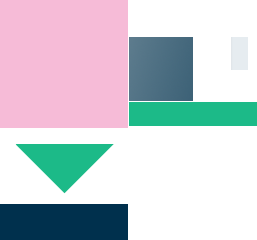
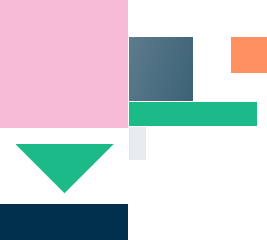
功能改进

diff --git a/src/ui/layaUI.max.all.js b/src/ui/layaUI.max.all.js
@@ -6,6 +6,7 @@ var game_uiUI=(function(_super){
 		function game_uiUI(){
 			
 		    this.keyboard=null;
+		    this.keyboard_bg=null;
 		    this.btn_q=null;
 		    this.btn_w=null;
 		    this.btn_e=null;
@@ -44,10 +45,11 @@ var game_uiUI=(function(_super){
 		    
 			laya.ui.Component.prototype.createChildren.call(this);
 			this.createView(game_uiUI.uiView);
-
 		}
 
-		game_uiUI.uiView={"type":"View","props":{"width":750,"height":300},"child":[{"type":"View","props":{"y":0,"x":0,"width":750,"var":"keyboard","height":300},"child":[{"type":"Button","props":{"y":70,"x":132,"width":36,"var":"btn_q","skin":"main_ui/btn_key.png","label":"Q","height":50}},{"type":"Button","props":{"y":70,"x":179,"width":36,"var":"btn_w","skin":"main_ui/btn_key.png","label":"W","height":50}},{"type":"Button","props":{"y":70,"x":226,"width":36,"var":"btn_e","skin":"main_ui/btn_key.png","label":"E","height":50}},{"type":"Button","props":{"y":70,"x":273,"width":36,"var":"btn_r","skin":"main_ui/btn_key.png","label":"R","height":50}},{"type":"Button","props":{"y":70,"x":320,"width":36,"var":"btn_t","skin":"main_ui/btn_key.png","label":"T","height":50}},{"type":"Button","props":{"y":70,"x":367,"width":36,"var":"btn_y","skin":"main_ui/btn_key.png","label":"Y","height":50}},{"type":"Button","props":{"y":70,"x":414,"width":36,"var":"btn_u","skin":"main_ui/btn_key.png","label":"U","height":50}},{"type":"Button","props":{"y":70,"x":461,"width":36,"var":"btn_i","skin":"main_ui/btn_key.png","label":"I","height":50}},{"type":"Button","props":{"y":70,"x":508,"width":36,"var":"btn_o","skin":"main_ui/btn_key.png","label":"O","height":50}},{"type":"Button","props":{"y":70,"x":555,"width":36,"var":"btn_p","skin":"main_ui/btn_key.png","label":"P","height":50}},{"type":"Button","props":{"y":130,"x":145,"width":36,"var":"btn_a","skin":"main_ui/btn_key.png","label":"A","height":50}},{"type":"Button","props":{"y":130,"x":192,"width":36,"var":"btn_s","skin":"main_ui/btn_key.png","label":"S","height":50}},{"type":"Button","props":{"y":130,"x":239,"width":36,"var":"btn_d","skin":"main_ui/btn_key.png","label":"D","height":50}},{"type":"Button","props":{"y":130,"x":286,"width":36,"var":"btn_f","skin":"main_ui/btn_key.png","label":"F","height":50}},{"type":"Button","props":{"y":130,"x":333,"width":36,"var":"btn_g","skin":"main_ui/btn_key.png","label":"G","height":50}},{"type":"Button","props":{"y":130,"x":380,"width":36,"var":"btn_h","skin":"main_ui/btn_key.png","label":"H","height":50}},{"type":"Button","props":{"y":130,"x":427,"width":36,"var":"btn_j","skin":"main_ui/btn_key.png","label":"J","height":50}},{"type":"Button","props":{"y":130,"x":474,"width":36,"var":"btn_k","skin":"main_ui/btn_key.png","label":"K","height":50}},{"type":"Button","props":{"y":130,"x":521,"width":36,"var":"btn_l","skin":"main_ui/btn_key.png","label":"L","height":50}},{"type":"Button","props":{"y":190,"x":482,"width":49,"var":"btn_del","skin":"main_ui/btn_key.png","labelColors":"#ff0000","label":"DEL","height":49}},{"type":"Button","props":{"y":190,"x":153,"width":36,"var":"btn_z","skin":"main_ui/btn_key.png","label":"Z","height":50}},{"type":"Button","props":{"y":190,"x":200,"width":36,"var":"btn_x","skin":"main_ui/btn_key.png","label":"X","height":50}},{"type":"Button","props":{"y":190,"x":247,"width":36,"var":"btn_c","skin":"main_ui/btn_key.png","label":"C","height":50}},{"type":"Button","props":{"y":190,"x":294,"width":36,"var":"btn_v","skin":"main_ui/btn_key.png","label":"Ü","height":50}},{"type":"Button","props":{"y":190,"x":341,"width":36,"var":"btn_b","skin":"main_ui/btn_key.png","label":"B","height":50}},{"type":"Button","props":{"y":190,"x":388,"width":36,"var":"btn_N","skin":"main_ui/btn_key.png","label":"N","height":50}},{"type":"Button","props":{"y":190,"x":435,"width":36,"var":"btn_M","skin":"main_ui/btn_key.png","label":"M","height":50}},{"type":"Button","props":{"y":190,"x":542,"width":49,"var":"btn_ok","skin":"main_ui/btn_key.png","labelColors":"#0000ff","label":"OK","height":50}}]}]};
+		STATICATTR$(game_uiUI,
+		['uiView',function(){return this.uiView={"type":"View","props":{"width":750,"height":419},"child":[{"type":"View","props":{"y":0,"x":0,"width":750,"var":"keyboard","height":419},"child":[{"type":"Image","props":{"y":0,"x":0,"var":"keyboard_bg","skin":"pic/keyboard_bg.png"}},{"type":"Button","props":{"y":10,"x":19,"width":65,"var":"btn_q","labelSize":50,"labelFont":"Arial","labelBold":true,"labelAlign":"center","label":" Q","height":112},"child":[{"type":"Image","props":{"skin":"pic/keyboard_key_letter.png"}}]},{"type":"Button","props":{"y":10,"x":91,"width":65,"var":"btn_w","labelSize":50,"labelBold":true,"labelAlign":"center","label":" W","height":112},"child":[{"type":"Image","props":{"skin":"pic/keyboard_key_letter.png"}}]},{"type":"Button","props":{"y":10,"x":163,"width":65,"var":"btn_e","label":"E","height":112},"child":[{"type":"Image","props":{"skin":"pic/keyboard_key_letter.png"}}]},{"type":"Button","props":{"y":10,"x":235,"width":65,"var":"btn_r","label":"R","height":112},"child":[{"type":"Image","props":{"skin":"pic/keyboard_key_letter.png"}}]},{"type":"Button","props":{"y":10,"x":307,"width":65,"var":"btn_t","label":"T","height":112},"child":[{"type":"Image","props":{"skin":"pic/keyboard_key_letter.png"}}]},{"type":"Button","props":{"y":10,"x":379,"width":65,"var":"btn_y","label":"Y","height":112},"child":[{"type":"Image","props":{"skin":"pic/keyboard_key_letter.png"}}]},{"type":"Button","props":{"y":10,"x":451,"width":65,"var":"btn_u","label":"U","height":112},"child":[{"type":"Image","props":{"skin":"pic/keyboard_key_letter.png"}}]},{"type":"Button","props":{"y":10,"x":523,"width":65,"var":"btn_i","label":"I","height":112},"child":[{"type":"Image","props":{"skin":"pic/keyboard_key_letter.png"}}]},{"type":"Button","props":{"y":10,"x":595,"width":65,"var":"btn_o","label":"O","height":112},"child":[{"type":"Image","props":{"skin":"pic/keyboard_key_letter.png"}}]},{"type":"Button","props":{"y":10,"x":667,"width":65,"var":"btn_p","label":"P","height":112},"child":[{"type":"Image","props":{"skin":"pic/keyboard_key_letter.png"}}]},{"type":"Button","props":{"y":155,"x":49,"width":65,"var":"btn_a","label":"A","height":112},"child":[{"type":"Image","props":{"skin":"pic/keyboard_key_letter.png"}}]},{"type":"Button","props":{"y":155,"x":121,"width":65,"var":"btn_s","label":"S","height":112},"child":[{"type":"Image","props":{"skin":"pic/keyboard_key_letter.png"}}]},{"type":"Button","props":{"y":155,"x":193,"width":65,"var":"btn_d","label":"D","height":112},"child":[{"type":"Image","props":{"skin":"pic/keyboard_key_letter.png"}}]},{"type":"Button","props":{"y":155,"x":265,"width":65,"var":"btn_f","label":"F","height":112},"child":[{"type":"Image","props":{"skin":"pic/keyboard_key_letter.png"}}]},{"type":"Button","props":{"y":155,"x":337,"width":65,"var":"btn_g","label":"G","height":112},"child":[{"type":"Image","props":{"skin":"pic/keyboard_key_letter.png"}}]},{"type":"Button","props":{"y":155,"x":409,"width":65,"var":"btn_h","label":"H","height":112},"child":[{"type":"Image","props":{"skin":"pic/keyboard_key_letter.png"}}]},{"type":"Button","props":{"y":155,"x":481,"width":65,"var":"btn_j","label":"J","height":112},"child":[{"type":"Image","props":{"skin":"pic/keyboard_key_letter.png"}}]},{"type":"Button","props":{"y":155,"x":553,"width":65,"var":"btn_k","label":"K","height":112},"child":[{"type":"Image","props":{"skin":"pic/keyboard_key_letter.png"}}]},{"type":"Button","props":{"y":155,"x":625,"width":65,"var":"btn_l","label":"L","height":112},"child":[{"type":"Image","props":{"skin":"pic/keyboard_key_letter.png"}}]},{"type":"Button","props":{"y":300,"x":523,"width":76,"var":"btn_del","labelColors":"#ff0000","height":112},"child":[{"type":"Image","props":{"skin":"pic/keyboard_key_del.png"}}]},{"type":"Button","props":{"y":300,"x":19,"width":65,"var":"btn_z","label":"Z","height":112},"child":[{"type":"Image","props":{"skin":"pic/keyboard_key_letter.png"}}]},{"type":"Button","props":{"y":300,"x":91,"width":65,"var":"btn_x","label":"X","height":112},"child":[{"type":"Image","props":{"skin":"pic/keyboard_key_letter.png"}}]},{"type":"Button","props":{"y":300,"x":163,"width":65,"var":"btn_c","label":"C","height":112},"child":[{"type":"Image","props":{"skin":"pic/keyboard_key_letter.png"}}]},{"type":"Button","props":{"y":300,"x":235,"width":65,"var":"btn_v","label":"Ü","height":112},"child":[{"type":"Image","props":{"skin":"pic/keyboard_key_letter.png"}}]},{"type":"Button","props":{"y":300,"x":307,"width":65,"var":"btn_b","label":"B","height":112},"child":[{"type":"Image","props":{"skin":"pic/keyboard_key_letter.png"}}]},{"type":"Button","props":{"y":300,"x":379,"width":65,"var":"btn_N","label":"N","height":112},"child":[{"type":"Image","props":{"skin":"pic/keyboard_key_letter.png"}}]},{"type":"Button","props":{"y":300,"x":451,"width":65,"var":"btn_M","label":"M","height":112},"child":[{"type":"Image","props":{"skin":"pic/keyboard_key_letter.png"}}]},{"type":"Button","props":{"y":300,"x":607,"width":123,"var":"btn_ok","labelColors":"#0000ff","label":"OK","height":112},"child":[{"type":"Image","props":{"skin":"pic/keyboard_key_ok.png"}}]}]}]};}
+		]);
 		return game_uiUI;
 	})(View);
 var main_uiUI=(function(_super){
@@ -63,6 +65,10 @@ var main_uiUI=(function(_super){
 		    this._playername=null;
 		    this._playertime=null;
 		    this.keyboard=null;
+		    this.popup_success=null;
+		    this.btn_share=null;
+		    this.btn_rule=null;
+		    this.popup_overtime=null;
 
 			main_uiUI.__super.call(this);
 		}
@@ -75,10 +81,11 @@ var main_uiUI=(function(_super){
 
 			laya.ui.Component.prototype.createChildren.call(this);
 			this.createView(main_uiUI.uiView);
-
 		}
 
-		main_uiUI.uiView={"type":"View","props":{"width":750,"height":1334},"child":[{"type":"Panel","props":{"y":705,"x":1,"width":750,"var":"pan_mytopic","height":635},"child":[{"type":"Image","props":{"y":0,"x":0,"width":750,"skin":"main_ui/panel_bg.png","height":381}},{"type":"Image","props":{"y":0,"x":0,"width":750,"skin":"main_ui/panel_title.png","sizeGrid":"10,10,10,10","height":24}},{"type":"Button","props":{"y":300,"x":434,"width":128,"var":"btnResult","skin":"main_ui/btn_ok.png","label":"规则","height":35}},{"type":"Button","props":{"y":300,"x":235,"width":128,"var":"btnStart","skin":"main_ui/btn_cancel.png","label":"开  始","height":35}},{"type":"View","props":{"y":86,"x":1,"width":746,"height":165},"child":[{"type":"Image","props":{"y":14,"x":16,"width":23,"skin":"main_ui/arrow.png","height":23},"child":[{"type":"Label","props":{"y":4,"x":27,"text":"你的答案","fontSize":16,"color":"#ffffff"}}]}]},{"type":"View","props":{"y":24,"x":167,"width":400,"height":71},"child":[{"type":"words","props":{"y":98,"x":2,"var":"topicpanel","runtime":"ui.wordsUI"}},{"type":"Image","props":{"y":5,"x":16,"skin":"main_ui/lilith_logo.png"}},{"type":"Label","props":{"y":7,"x":83,"text":"烟花开过要吃甜甜圈","fontSize":25,"color":"#ffffff"}},{"type":"Label","props":{"y":40,"x":84,"text":"题目：？？？圈","fontSize":25,"color":"#ffffff"}}]}]},{"type":"Panel","props":{"y":9,"x":0,"width":750,"name":"pan_result","height":684},"child":[{"type":"Image","props":{"y":0,"x":0,"width":750,"skin":"main_ui/panel_bg.png","height":814}},{"type":"Image","props":{"y":0,"x":0,"width":750,"skin":"main_ui/panel_title.png","height":30}},{"type":"List","props":{"y":30,"x":2,"width":750,"var":"lst_players","vScrollBarSkin":"main_ui/vscroll.png","repeatY":4,"repeatX":1,"height":789},"child":[{"type":"Box","props":{"y":1,"x":45,"name":"render"},"child":[{"type":"View","props":{"var":"_boxview","name":"boxview"},"child":[{"type":"Image","props":{"var":"_playerico","skin":"main_ui/btn_key.png","name":"playerico"}},{"type":"Label","props":{"y":5,"x":45,"var":"_playername","text":"这是一个人的名字","name":"playername"}},{"type":"Label","props":{"y":5,"x":373,"var":"_playertime","text":"6s","name":"playertime"}},{"type":"words","props":{"y":37,"x":-2,"name":"words","runtime":"ui.wordsUI"}}]}]}]}]},{"type":"Image","props":{"y":54,"x":303,"width":157,"skin":"main_ui/lilith_logo.png","height":45},"child":[{"type":"Label","props":{"y":7,"x":47,"text":"记录","fontSize":30,"color":"#d6ff00"}}]},{"type":"game_ui","props":{"y":1027,"x":-2,"var":"keyboard","runtime":"ui.game_uiUI"}}]};
+		STATICATTR$(main_uiUI,
+		['uiView',function(){return this.uiView={"type":"View","props":{"width":750,"height":1334},"child":[{"type":"Panel","props":{"y":550,"x":-1,"width":750,"var":"pan_mytopic","height":374},"child":[{"type":"Image","props":{"y":0,"x":0,"width":750,"skin":"main_ui/panel_bg.png","height":381}},{"type":"Image","props":{"y":0,"x":0,"width":750,"skin":"main_ui/panel_title.png","sizeGrid":"10,10,10,10","height":24}},{"type":"Button","props":{"y":300,"x":434,"width":128,"var":"btnResult","skin":"main_ui/btn_ok.png","label":"规则","height":35}},{"type":"Button","props":{"y":300,"x":235,"width":128,"var":"btnStart","skin":"main_ui/btn_cancel.png","label":"开  始","height":35}},{"type":"View","props":{"y":86,"x":1,"width":746,"height":165},"child":[{"type":"Image","props":{"y":14,"x":16,"width":23,"skin":"main_ui/arrow.png","height":23},"child":[{"type":"Label","props":{"y":4,"x":27,"text":"你的答案","fontSize":16,"color":"#ffffff"}}]}]},{"type":"View","props":{"y":24,"x":167,"width":400,"height":71},"child":[{"type":"words","props":{"y":98,"x":2,"var":"topicpanel","runtime":"ui.wordsUI"}},{"type":"Image","props":{"y":5,"x":16,"skin":"main_ui/lilith_logo.png"}},{"type":"Label","props":{"y":7,"x":83,"text":"烟花开过要吃甜甜圈","fontSize":25,"color":"#ffffff"}},{"type":"Label","props":{"y":40,"x":84,"text":"题目：？？？圈","fontSize":25,"color":"#ffffff"}}]}]},{"type":"Panel","props":{"y":0,"x":0,"width":750,"name":"pan_result","height":684},"child":[{"type":"Image","props":{"y":0,"x":0,"width":750,"skin":"main_ui/panel_bg.png","height":814}},{"type":"Image","props":{"y":0,"x":0,"width":750,"skin":"main_ui/panel_title.png","height":30}},{"type":"List","props":{"y":30,"x":2,"width":750,"var":"lst_players","vScrollBarSkin":"main_ui/vscroll.png","repeatY":4,"repeatX":1,"height":789},"child":[{"type":"Box","props":{"y":1,"x":45,"name":"render"},"child":[{"type":"View","props":{"var":"_boxview","name":"boxview"},"child":[{"type":"Image","props":{"var":"_playerico","skin":"main_ui/btn_key.png","name":"playerico"}},{"type":"Label","props":{"y":5,"x":45,"var":"_playername","text":"这是一个人的名字","name":"playername"}},{"type":"Label","props":{"y":5,"x":373,"var":"_playertime","text":"6s","name":"playertime"}},{"type":"words","props":{"y":37,"x":-2,"name":"words","runtime":"ui.wordsUI"}}]}]}]}]},{"type":"Image","props":{"y":54,"x":303,"width":157,"skin":"main_ui/lilith_logo.png","height":45},"child":[{"type":"Label","props":{"y":7,"x":47,"text":"记录","fontSize":30,"color":"#d6ff00"}}]},{"type":"game_ui","props":{"y":911,"x":3,"width":750,"var":"keyboard","height":419,"runtime":"ui.game_uiUI"}},{"type":"View","props":{"var":"popup_success"},"child":[{"type":"Image","props":{"y":58,"x":53,"skin":"pic/popup_success.png"}},{"type":"Button","props":{"y":1112,"x":71,"width":286,"var":"btn_share","labelSize":30,"labelFont":"SimSun","labelColors":"#ffffff","labelBold":true,"label":"邀请好友答题","height":99},"child":[{"type":"Image","props":{"y":0,"x":0,"skin":"pic/button_red.png"}}]},{"type":"Button","props":{"y":1112,"x":410,"width":286,"var":"btn_rule","labelSize":30,"labelColors":"#ffffff","labelBold":true,"label":"规则说明","height":99},"child":[{"type":"Image","props":{"skin":"pic/button_red.png"}}]}]},{"type":"View","props":{"y":10,"x":10,"var":"popup_overtime"},"child":[{"type":"Image","props":{"y":52,"x":66,"skin":"pic/popup_overtime.png"}},{"type":"Button","props":{"y":1112,"x":71,"width":286,"labelSize":30,"labelFont":"SimSun","labelColors":"#ffffff","labelBold":true,"label":"    向朋友求助","height":99},"child":[{"type":"Image","props":{"y":0,"x":0,"skin":"pic/button_red.png"}},{"type":"Image","props":{"y":21,"x":24,"width":49,"skin":"pic/icon_monents.png","height":49}}]},{"type":"Button","props":{"y":1112,"x":410,"width":286,"labelSize":30,"labelColors":"#ffffff","labelBold":true,"label":"规则说明","height":99},"child":[{"type":"Image","props":{"skin":"pic/button_red.png"}}]}]}]};}
+		]);
 		return main_uiUI;
 	})(View);
 var readme_uiUI=(function(_super){
@@ -92,35 +99,29 @@ var readme_uiUI=(function(_super){
 		CLASS$(readme_uiUI,'ui.readme_uiUI',_super);
 		var __proto__=readme_uiUI.prototype;
 		__proto__.createChildren=function(){
-		    			View.regComponent("HTMLDivElement",laya.html.dom.HTMLDivElement);
-
+		    
 			laya.ui.Component.prototype.createChildren.call(this);
 			this.createView(readme_uiUI.uiView);
-
 		}
 
-		readme_uiUI.uiView={"type":"Dialog","props":{"width":480,"height":800},"child":[{"type":"Image","props":{"y":0,"x":0,"width":480,"skin":"main_ui/panel_title.png","height":800,"alpha":0.9}},{"type":"View","props":{"y":344,"x":0,"width":480,"height":93},"child":[{"type":"Image","props":{"y":-181,"x":0,"width":480,"skin":"main_ui/panel_bg.png","height":447},"child":[{"type":"HTMLDivElement","props":{"y":94,"x":5,"width":476,"name":"txthtml_rules","innerHTML":"1、对方公司圣诞风格的。 <br> 2、大发发大发发安抚安抚 <br> 3、啊给我二哥哥我二哥","height":242}},{"type":"Button","props":{"y":389,"x":189,"width":128,"var":"btn_ok","skin":"main_ui/btn_ok.png","label":"返回","height":31}}]}]}]};
+		STATICATTR$(readme_uiUI,
+		['uiView',function(){return this.uiView={"type":"Dialog","props":{"width":750,"height":1334},"child":[{"type":"Image","props":{"y":0,"x":0,"width":750,"skin":"pic/blackmask.png","sizeGrid":"2,2,2,2","height":1334,"alpha":0.8}},{"type":"Image","props":{"y":305,"x":84,"width":595,"skin":"pic/rule_bg.png","height":719,"alpha":0.9}},{"type":"View","props":{"y":649,"x":84,"width":480,"height":93},"child":[{"type":"Image","props":{"y":-272,"x":218,"skin":"pic/rule_title.png"},"child":[{"type":"Image","props":{"y":213,"x":-115,"skin":"pic/rule_underline.png"}},{"type":"Image","props":{"y":303,"x":-115,"skin":"pic/rule_underline.png"}},{"type":"Image","props":{"y":401,"x":-115,"skin":"pic/rule_underline.png"}},{"type":"Image","props":{"y":517,"x":-115,"skin":"pic/rule_underline.png"}}]}]},{"type":"Button","props":{"y":1043,"x":264,"width":232,"var":"btn_ok","height":56},"child":[{"type":"Image","props":{"skin":"pic/rule_iknow.png"}}]}]};}
+		]);
 		return readme_uiUI;
 	})(Dialog);
 var wordsUI=(function(_super){
 		function wordsUI(){
 			
-		    this._pinyin1=null;
+		    this.bg_unlock=null;
+		    this.bg_locked=null;
 		    this.pinyin1=null;
-		    this._word1=null;
+		    this.pinyin2=null;
+		    this.pinyin3=null;
+		    this.pinyin4=null;
 		    this.word1=null;
 		    this.flashnode=null;
-		    this._pinyin2=null;
-		    this.pinyin2=null;
-		    this._word2=null;
 		    this.word2=null;
-		    this._pinyin3=null;
-		    this.pinyin3=null;
-		    this._word3=null;
 		    this.word3=null;
-		    this._pinyin4=null;
-		    this.pinyin4=null;
-		    this._word4=null;
 		    this.word4=null;
 
 			wordsUI.__super.call(this);
@@ -132,9 +133,10 @@ var wordsUI=(function(_super){
 		    
 			laya.ui.Component.prototype.createChildren.call(this);
 			this.createView(wordsUI.uiView);
-
 		}
 
-		wordsUI.uiView={"type":"View","props":{"width":400,"height":134},"child":[{"type":"View","props":{"y":0,"x":0,"width":400,"height":134},"child":[{"type":"Image","props":{"y":9,"x":14,"width":69,"var":"_pinyin1","skin":"main_ui/lilith_logo.png","name":"pinyin1","height":29},"child":[{"type":"Label","props":{"y":2,"width":62,"var":"pinyin1","valign":"middle","text":"ren","height":26,"fontSize":20,"color":"#ffffff","centerX":0,"align":"center"}}]},{"type":"Image","props":{"y":51,"x":14,"width":68,"var":"_word1","skin":"main_ui/lilith_logo.png","name":"word1","height":74},"child":[{"type":"Label","props":{"width":62,"var":"word1","valign":"middle","text":"人","height":64,"fontSize":25,"color":"#ffffff","centerY":0,"centerX":0,"align":"center"}},{"type":"Label","props":{"y":10,"x":10,"width":62,"var":"flashnode","valign":"middle","height":64,"fontSize":25,"color":"#ffffff","centerY":0,"centerX":0,"align":"center"}}]},{"type":"Image","props":{"y":9,"x":116,"width":69,"var":"_pinyin2","skin":"main_ui/lilith_logo.png","name":"pinyin2","height":29},"child":[{"type":"Label","props":{"y":2,"width":62,"var":"pinyin2","valign":"middle","text":"ren","height":26,"fontSize":20,"color":"#ffffff","centerX":0,"align":"center"}}]},{"type":"Image","props":{"y":51,"x":116,"width":68,"var":"_word2","skin":"main_ui/lilith_logo.png","name":"word1","height":74},"child":[{"type":"Label","props":{"y":5,"width":62,"var":"word2","valign":"middle","text":"？","height":64,"fontSize":25,"color":"#ffffff","centerX":0,"align":"center"}}]},{"type":"Image","props":{"y":9,"x":217,"width":69,"var":"_pinyin3","skin":"main_ui/lilith_logo.png","name":"pinyin3","height":29},"child":[{"type":"Label","props":{"y":2,"width":62,"var":"pinyin3","valign":"middle","text":"ren","height":26,"fontSize":20,"color":"#ffffff","centerX":0,"align":"center"}}]},{"type":"Image","props":{"y":51,"x":218,"width":68,"var":"_word3","skin":"main_ui/lilith_logo.png","name":"_word3","height":74},"child":[{"type":"Label","props":{"y":5,"width":62,"var":"word3","valign":"middle","text":"？","height":64,"fontSize":25,"color":"#ffffff","centerX":0,"align":"center"}}]},{"type":"Image","props":{"y":9,"x":319,"width":69,"var":"_pinyin4","skin":"main_ui/lilith_logo.png","name":"pinyin4","height":29},"child":[{"type":"Label","props":{"y":2,"width":62,"var":"pinyin4","valign":"middle","text":"ren","height":26,"fontSize":20,"color":"#ffffff","centerX":0,"align":"center"}}]},{"type":"Image","props":{"y":51,"x":320,"width":68,"var":"_word4","skin":"main_ui/lilith_logo.png","name":"word4","height":74},"child":[{"type":"Label","props":{"y":5,"width":62,"var":"word4","valign":"middle","text":"？","height":64,"fontSize":25,"color":"#ffffff","centerX":0,"align":"center"}}]}]}]};
+		STATICATTR$(wordsUI,
+		['uiView',function(){return this.uiView={"type":"View","props":{"width":525,"height":170},"child":[{"type":"View","props":{"y":0,"x":0,"width":525,"height":170},"child":[{"type":"Image","props":{"y":0,"x":0,"var":"bg_unlock","skin":"pic/words_bg_unlock.png"}},{"type":"Image","props":{"var":"bg_locked","skin":"pic/words_bg_locked.png"}},{"type":"Label","props":{"y":0,"x":5,"width":104,"var":"pinyin1","valign":"middle","text":"ren","height":43,"fontSize":20,"color":"#ffffff","align":"center"}},{"type":"Label","props":{"y":0,"x":142,"width":104,"var":"pinyin2","valign":"middle","text":"ren","height":43,"fontSize":20,"color":"#ffffff","align":"center"}},{"type":"Label","props":{"y":0,"x":279,"width":104,"var":"pinyin3","valign":"middle","text":"ren","height":43,"fontSize":20,"color":"#ffffff","align":"center"}},{"type":"Label","props":{"y":0,"x":416,"width":104,"var":"pinyin4","valign":"middle","text":"ren","height":43,"fontSize":20,"color":"#ffffff","align":"center"}},{"type":"Label","props":{"y":62,"x":5,"width":103,"var":"word1","valign":"middle","text":"人","height":103,"fontSize":25,"color":"#ffffff","align":"center"},"child":[{"type":"Label","props":{"y":0,"x":206,"width":103,"var":"flashnode","valign":"middle","height":103,"fontSize":25,"color":"#ffffff","centerX":0,"align":"center"}}]},{"type":"Label","props":{"y":62,"x":142,"width":103,"var":"word2","valign":"middle","text":"？","height":103,"fontSize":25,"color":"#ffffff","align":"center"}},{"type":"Label","props":{"y":62,"x":279,"width":103,"var":"word3","valign":"middle","text":"？","height":103,"fontSize":25,"color":"#ffffff","align":"center"}},{"type":"Label","props":{"y":62,"x":416,"width":103,"var":"word4","valign":"middle","text":"？","height":103,"fontSize":25,"color":"#ffffff","align":"center"}}]}]};}
+		]);
 		return wordsUI;
 	})(View);

diff --git a/src/mainui_manager.js b/src/mainui_manager.js
@@ -41,6 +41,8 @@
 		var btnResult = this.btnResult;
 		var wordspanel = this.topicpanel;
 		var keyboard = this.keyboard;
+		var panelSuccess =this.popup_success;
+		var panelFailed = this.popup_overtime;
 
         var userlist = _gamelogic.getUserList();
 		this.render.dataSource = {slider: 50, scroll: 80, progress: 0.2, label: {color: "#ff0000", text: "Hello LayaAir"}};
@@ -53,6 +55,10 @@
 		this.lst_players.renderHandler = new Handler(this, onListRender);//还可以自定义list渲染方式，可以打开下面注释看一下效果
 
 		keyboard.y = 1337;
+		panelFailed.visible = false;
+		panelSuccess.visible = false;
+
+
 		btnResult.on(Event.CLICK, this, onBtnReadmeClick);
 		btnStart.on(Event.CLICK, this, onBtnStartClick);
 
@@ -136,7 +142,7 @@
 			}
 			Tween.to(btnStart,{x:-150},timeinterval,Laya.Ease.cubicOut,Handler.create(this,onTween));
 			Tween.to(btnResult,{x:750},timeinterval,Laya.Ease.cubicOut,Handler.create(this,null));
-			Tween.to(keyboard,{y:1027},timeinterval,Laya.Ease.cubicIn,Handler.create(this,null));
+			Tween.to(keyboard,{y:911},timeinterval,Laya.Ease.cubicIn,Handler.create(this,null));
 		}
 		function movePanelToRady()
 		{
@@ -183,6 +189,8 @@
 		{
 			Laya.stage.addChild(new main_ui());
 		}
+		
+		Laya.loader.load("res/atlas/pic.json", Handler.create(this, null), null, Loader.ATLAS);
 		Laya.loader.load("res/atlas/main_ui.json", Handler.create(this, onAssetLoaded), null, Loader.ATLAS);
     }
 })();

diff --git a/src/readmeui_manager.js b/src/readmeui_manager.js
@@ -39,6 +39,8 @@
 		{
 			Laya.stage.addChild(new readme_ui());
 		}
+		
+		Laya.loader.load("res/atlas/pic.json", Handler.create(this, null), null, Loader.ATLAS);
 		Laya.loader.load("res/atlas/main_ui.json", Handler.create(this, onAssetLoaded), null, Loader.ATLAS);
     }
 })();
